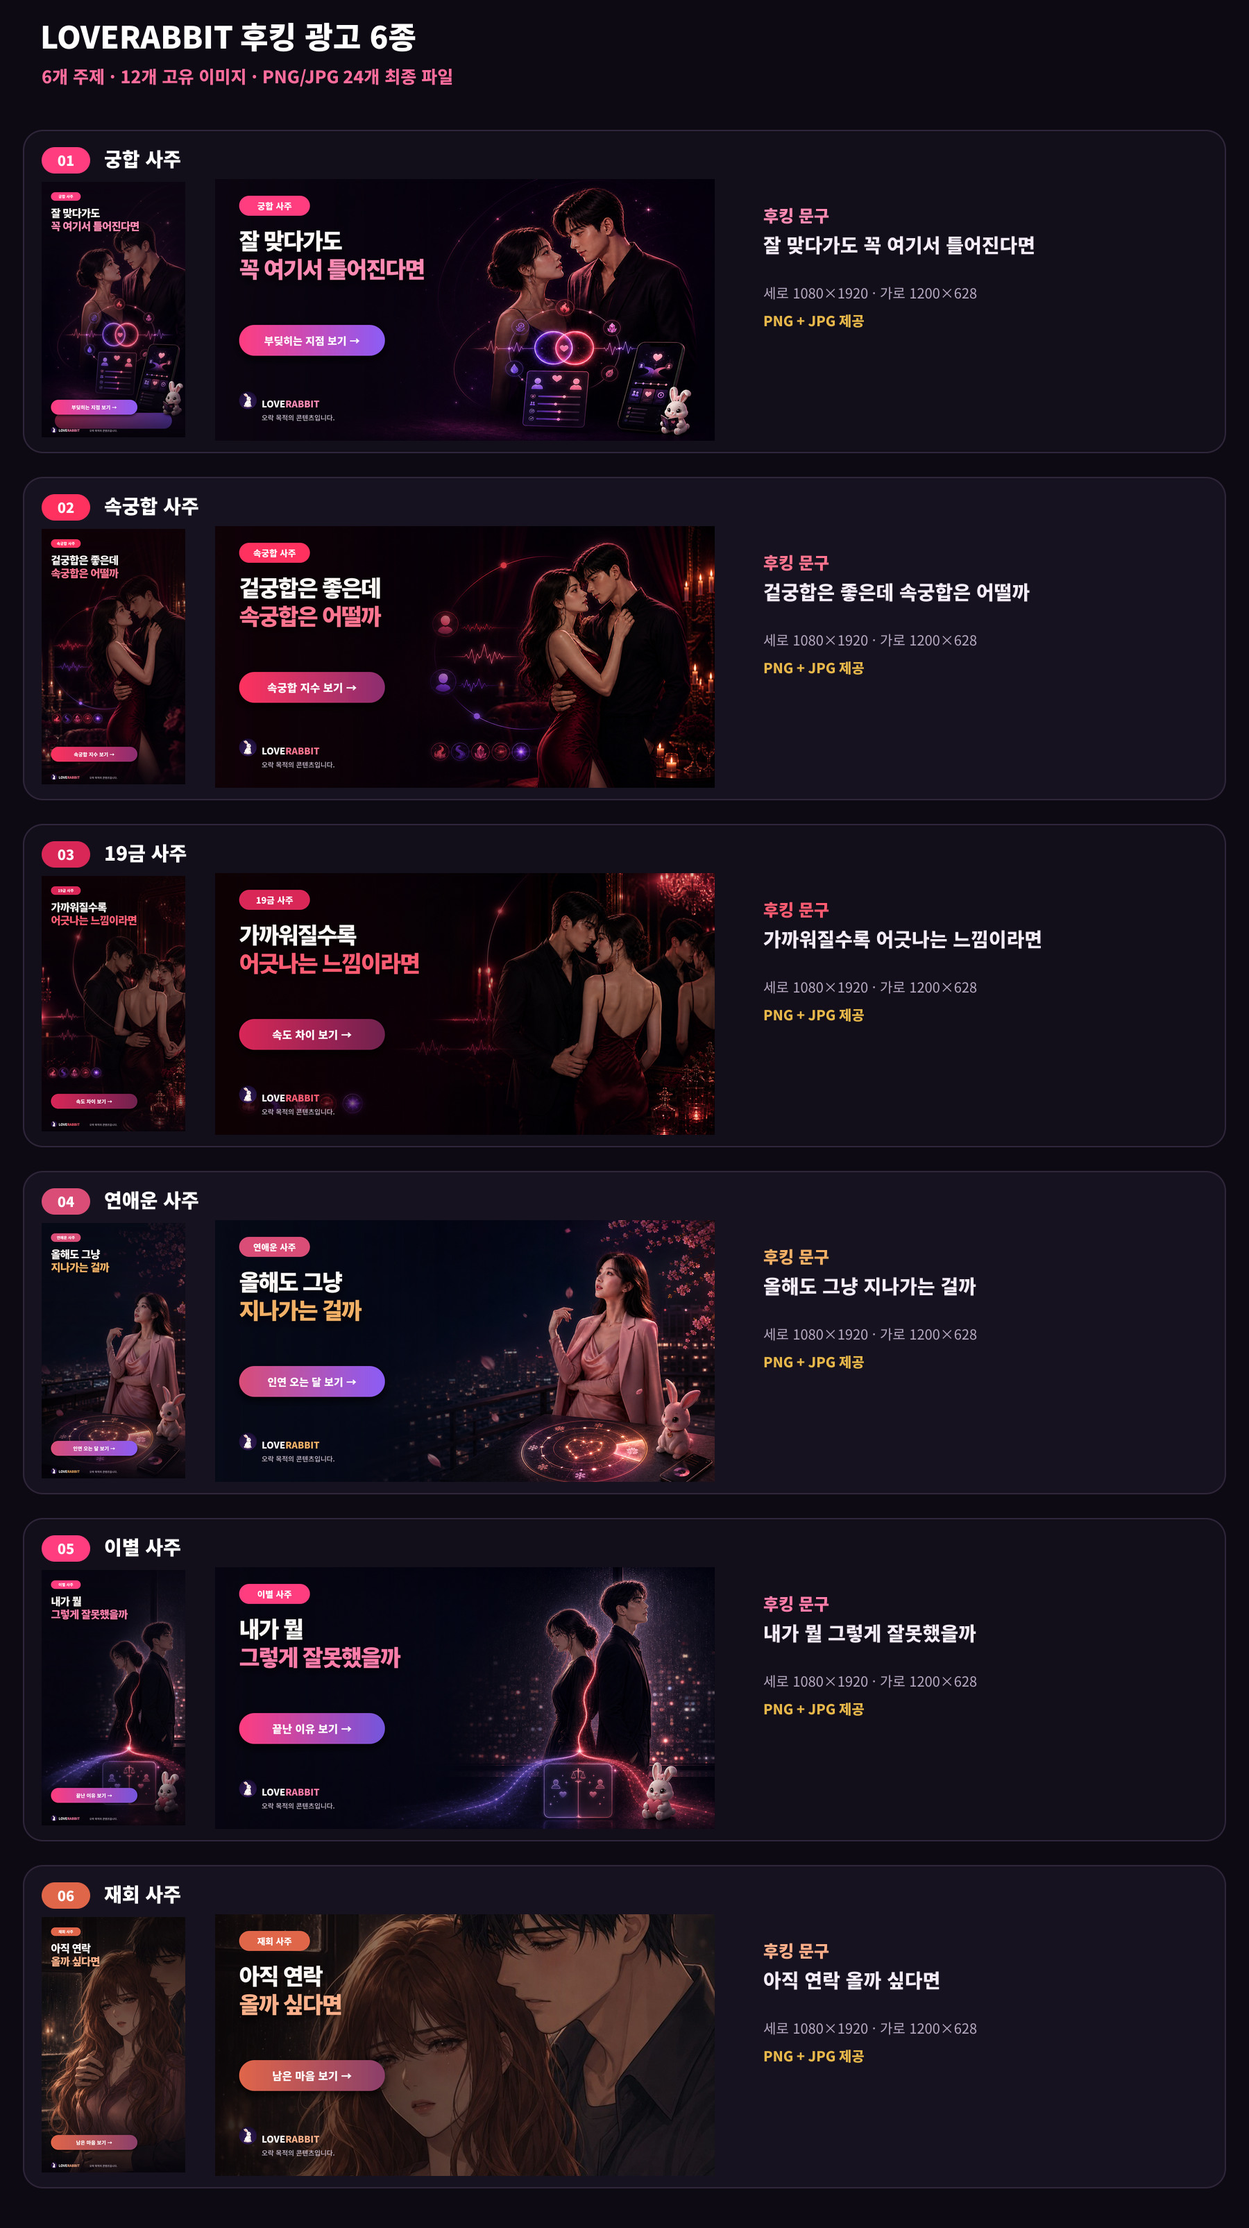
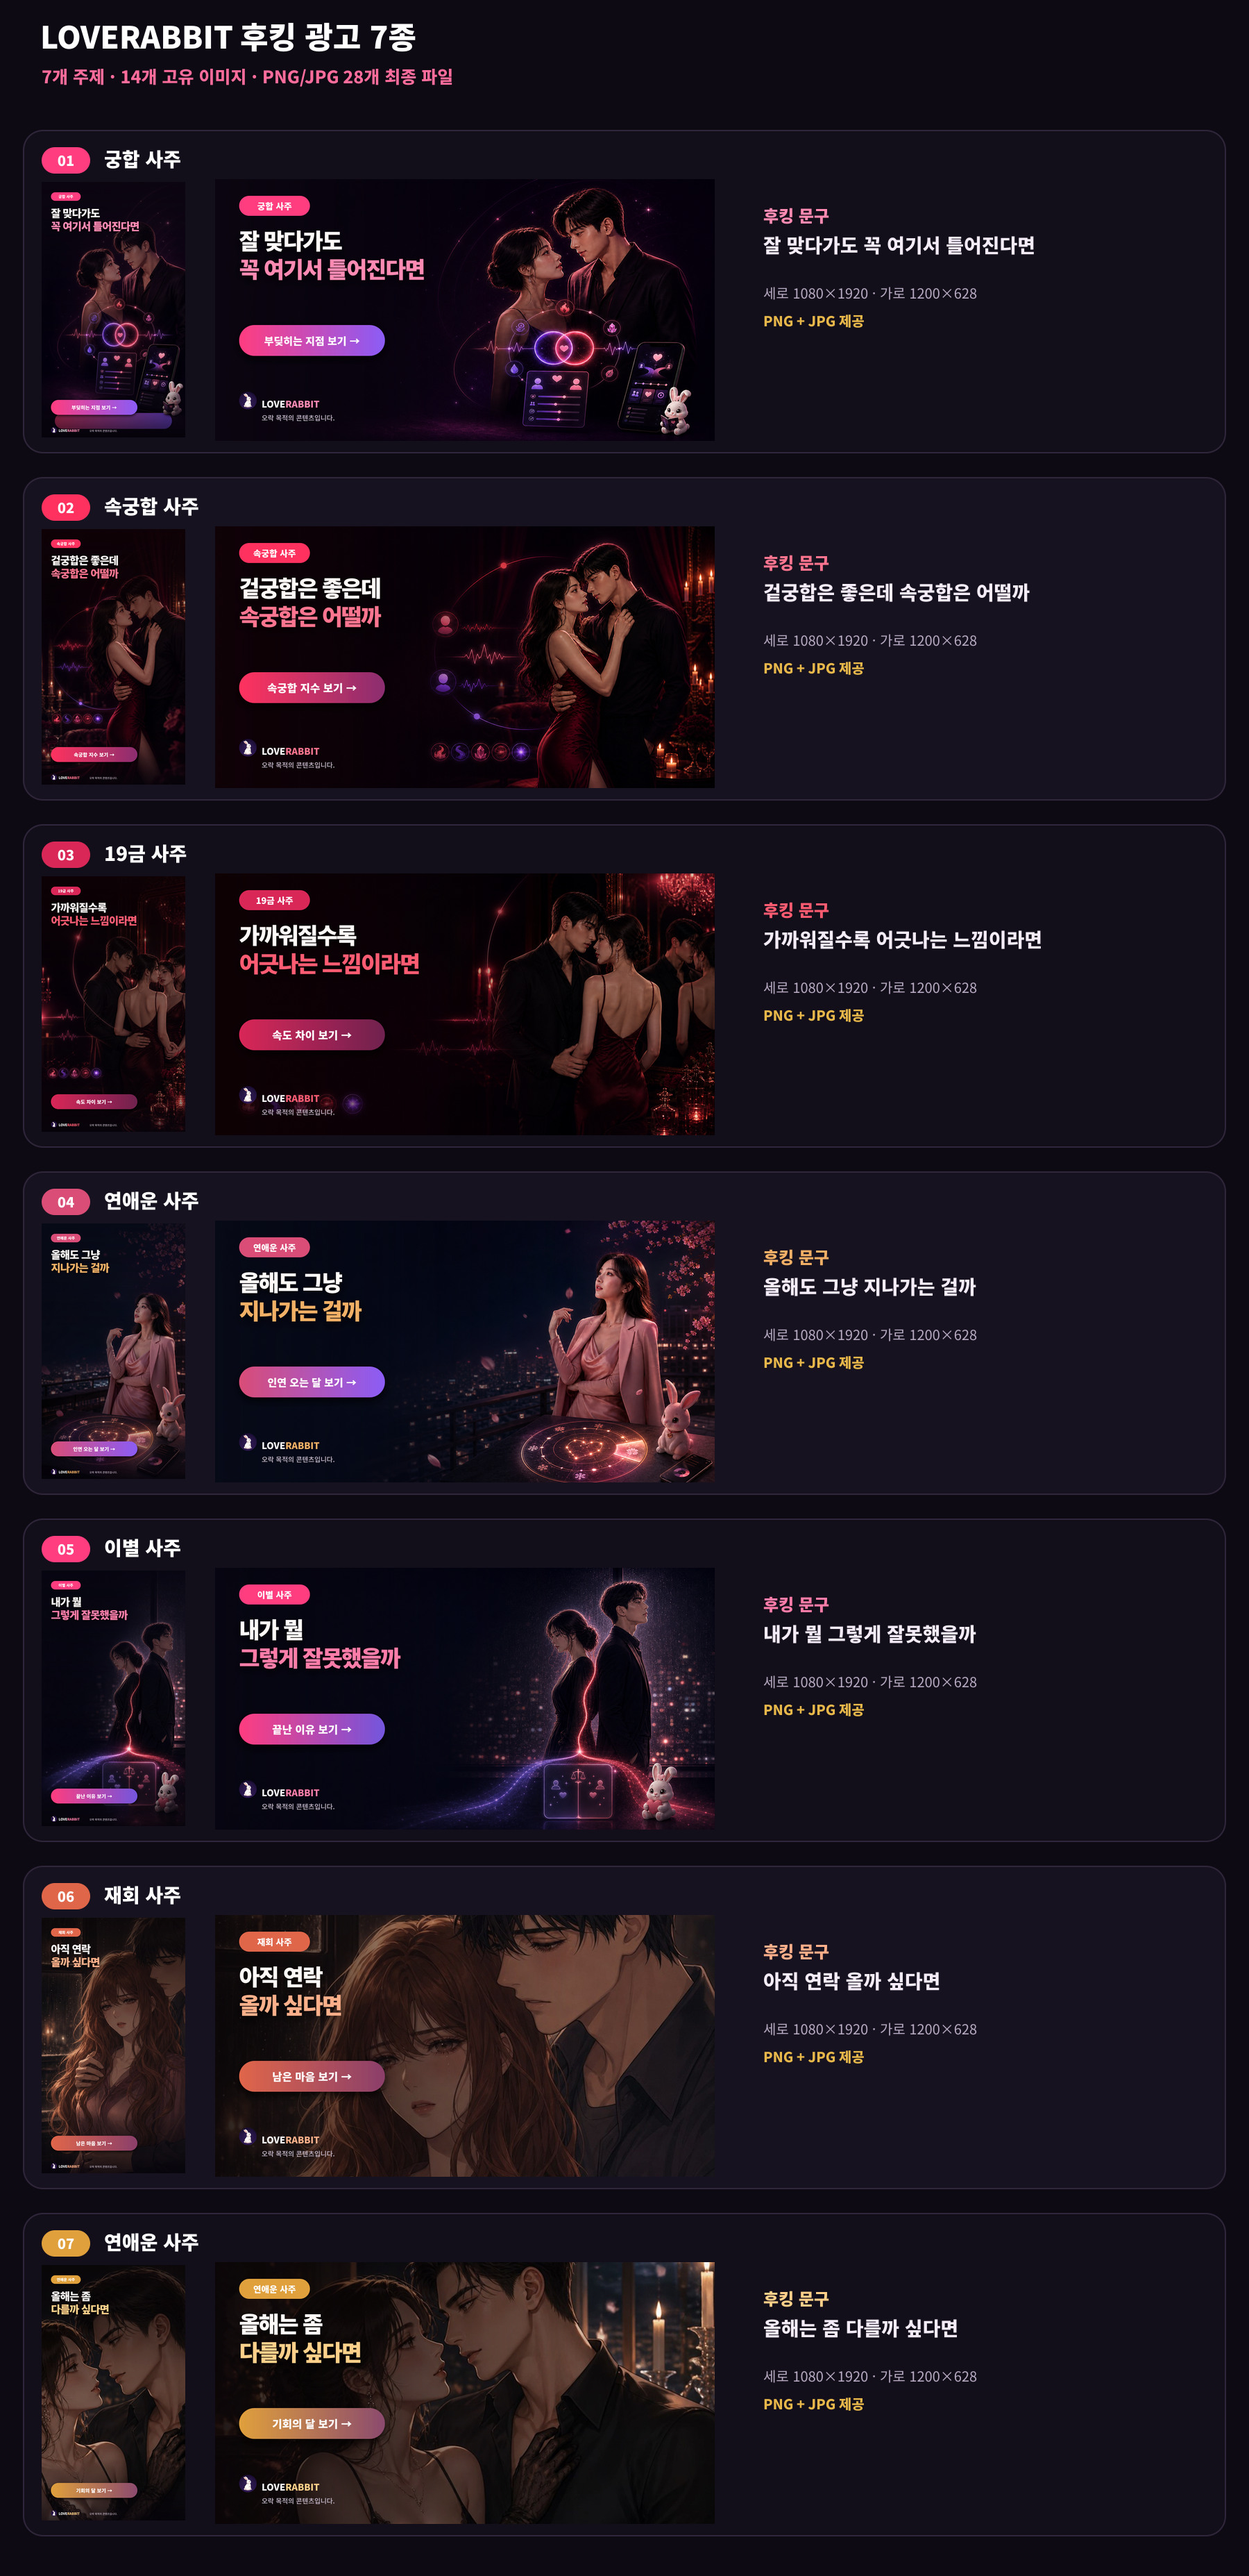
add 연애운 vertical/landscape ads, write copy for all four
소재
- 후킹형에 07-yeonae-year (세로 1080x1920 · 가로 1200x628). 배경은 상품
  카드(cards-pastel/yeonae.jpg)에서 떴다 - 정사각 08 과 같은 그림이라
  정사각·세로·가로 셋이 한 그림에서 나오고, 도착 화면도 같은 그림이다.
- 04(인연 각도)와 갈라 둔다. 04 는 "인연 들어오는 달", 07 은 "기회의 달과
  고비의 달". 같은 상품이지만 문구를 바꿔 끼우면 그림이 문구를 부정한다.
- 이 카드만 자르는 자리를 손으로 못박았다 (derive-card-bg 의 vertical).
  기본값으로 자르면 가슴선이 42~76% 구간 - 베일이 걷혀 그대로 보이는 자리 -
  에 놓인다. 2.6배로 당겨 두 얼굴만 남기면 88% 로 내려가 CTA 뒤로 들어간다.
  파는 것은 올해의 연애 흐름이지 성인 소재가 아니다.

문구 (META_COPY_V2)
- 네 광고 문구를 전부 채웠다. 지금 돌고 있는 광고의 리듬(짧은 후킹 +
  무엇을 주는지)에 맞췄고, 각 항목마다 심의 위험 순서를 적어 뒀다.
- 이별 문구에서 "붙잡을지 정리할지" 를 뺐다. 이 상품은 이미 끝난 연애를
  부검하는 것이고(목차 10절 전부가 사후 분석), 지금 관계를 붙잡을지
  정해 주는 절은 없다. 그렇게 팔면 아직 안 헤어진 사람이 사고 환불로
  돌아온다. 랜딩 이름(/saju/breakup-decision)이 헷갈리게 하는 자리다.
- 연애운은 두 각도를 따로 적었다. 한 세트에 섞지 말 것.

diff --git a/marketing/ads/hook-five-v1/HOOK_FIVE_CATALOG.md b/marketing/ads/hook-five-v1/HOOK_FIVE_CATALOG.md
@@ -1,8 +1,8 @@
-# LOVERABBIT 후킹 광고 6종
+# LOVERABBIT 후킹 광고 7종
 
-- 광고 주제: 6개
-- 고유 광고 이미지: 12장 (`세로 6 + 가로 6`)
-- 최종 광고 파일: 24개 (`PNG 12 + JPG 12`)
+- 광고 주제: 7개
+- 고유 광고 이미지: 14장 (`세로 7 + 가로 7`)
+- 최종 광고 파일: 28개 (`PNG 14 + JPG 14`)
 - 규격: 세로 `1080×1920`, 가로 `1200×628`
 
 | 번호 | 광고 주제 | 후킹 문구 | 파일명 접두사 |
@@ -13,6 +13,7 @@
 | 04 | 연애운 사주 | 이번 사랑, 언제 시작될까? | `04-romance-fortune` |
 | 05 | 이별 사주 | 끝낼까, 붙잡을까? | `05-breakup` |
 | 06 | 재회 사주 | 아직 연락 올까 싶다면 | `06-jaehoe` |
+| 07 | 연애운 사주 (올해 흐름) | 올해는 좀 다를까 싶다면 | `07-yeonae-year` |
 
 각 접두사 뒤에 다음 형식이 붙습니다.
 
@@ -21,21 +22,35 @@
 - 가로 PNG: `-ad-horizontal-1200x628.png`
 - 가로 JPG: `-ad-horizontal-1200x628.jpg`
 
-`*-bg.png` 파일은 문구가 없는 원본 배경이며, 최종 광고 24개 집계에는 포함하지 않습니다.
+`*-bg.png` 파일은 문구가 없는 원본 배경이며, 최종 광고 28개 집계에는 포함하지 않습니다.
 
-## 06 재회는 배경 출처가 다릅니다
+## 04 와 07 은 같은 상품입니다
 
-01–05 의 배경은 주제마다 따로 만든 AI 원화입니다. 06 은 그 원화가 없어서,
-그 상품이 사이트에서 실제로 쓰는 카드(`public/cards-pastel/jaehoe.jpg`,
-900×1200)에서 떴습니다 — `node marketing/ads/derive-card-bg.mjs`.
+둘 다 `/product/yeonae` 로 갑니다. 갈라 두는 축은 **각도**입니다 — 04 는 혼자
+기다리는 사람에게 `인연 들어오는 달`, 07 은 올해 전체를 재는 사람에게
+`기회의 달과 고비의 달`. 정사각 세트의 04/08 을 갈라 둔 것과 같은 축이고,
+문구를 서로 바꿔 끼우면 그림이 문구를 부정합니다.
+
+## 06 · 07 은 배경 출처가 다릅니다
+
+01–05 의 배경은 주제마다 따로 만든 AI 원화입니다. 06(재회)과 07(연애운)은
+그 원화가 없어서, 그 상품이 사이트에서 실제로 쓰는 카드
+(`public/cards-pastel/jaehoe.jpg` · `yeonae.jpg`, 900×1200)에서 떴습니다 —
+`node marketing/ads/derive-card-bg.mjs`.
 
 **확대입니다.** 900px 원본을 가로 1734px 까지 늘립니다. 애니풍 그림이라 눈에
-잘 띄지는 않지만 원화와 같지 않습니다. 원화를 새로 만들면
-`06-jaehoe-vertical-bg.png` · `06-jaehoe-horizontal-bg.png` 만 갈아 끼우고
-생성기를 다시 돌리면 됩니다.
+잘 띄지는 않지만 원화와 같지 않습니다. 원화를 새로 만들면 `*-bg.png` 두 장만
+갈아 끼우고 생성기를 다시 돌리면 됩니다.
 
-대신 이점도 있습니다 — 클릭 뒤 도착하는 `/product/jaehoe` 가 같은 그림을
-쓰므로 소재와 도착 화면이 이어집니다.
+대신 이점도 있습니다 — 클릭 뒤 도착하는 상품 페이지가 같은 그림을 쓰므로
+소재와 도착 화면이 이어집니다.
+
+**07 은 자르는 자리를 손으로 못박았습니다.** 그 카드는 인물이 붙어 있는
+구도라, 기본값으로 자르면 가슴선이 화면 한가운데(42~76%, 베일이 걷히는
+구간)에 그대로 놓입니다. 2.6배로 당겨 두 얼굴만 남기면 그 선이 88% 로
+내려가 CTA 버튼과 아래쪽 어두운 띠 뒤로 들어갑니다. 파는 것은 올해의 연애
+흐름이지 성인 소재가 아닙니다 — 그림이 그렇게 읽히면 심의도 위험하고
+상품도 오해받습니다. 값은 `derive-card-bg.mjs` 의 `vertical` 에 있습니다.
 
 ## 광고 운영 메모
 

diff --git a/marketing/ads/AD_CATALOG.md b/marketing/ads/AD_CATALOG.md
@@ -2,9 +2,9 @@
 
 ## 현재 수량
 
-- 광고 콘셉트: **12개**
-- 고유 광고 이미지: **24개** — 콘셉트마다 세로형 1개 + 가로형 1개
-- 최종 내보내기 파일: **48개** — 각 이미지를 PNG와 JPG로 저장
+- 광고 콘셉트: **13개**
+- 고유 광고 이미지: **26개** — 콘셉트마다 세로형 1개 + 가로형 1개
+- 최종 내보내기 파일: **52개** — 각 이미지를 PNG와 JPG로 저장
 - 생성용 배경과 합성 스크립트는 위 숫자에서 제외
 
 ## 광고별 구분
@@ -23,6 +23,7 @@
 | 10 | 연애운 사주 · 봄밤 타이밍형 | 이번 사랑, 언제 시작될까? | `hook-five-v1/04-romance-fortune-ad-vertical-1080x1920.png` | `hook-five-v1/04-romance-fortune-ad-horizontal-1200x628.png` | `/product/yeonae` (인연 타이밍이 여기로 합쳐졌다) |
 | 11 | 이별 사주 · 갈림길형 | 끝낼까, 붙잡을까? | `hook-five-v1/05-breakup-ad-vertical-1080x1920.png` | `hook-five-v1/05-breakup-ad-horizontal-1200x628.png` | 이별 전용 랜딩 |
 | 12 | 재회 사주 · 빗속 포옹형 | 아직 연락 올까 싶다면 | `hook-five-v1/06-jaehoe-ad-vertical-1080x1920.png` | `hook-five-v1/06-jaehoe-ad-horizontal-1200x628.png` | `/product/jaehoe` |
+| 13 | 연애운 사주 · 촛불 커플형 | 올해는 좀 다를까 싶다면 | `hook-five-v1/07-yeonae-year-ad-vertical-1080x1920.png` | `hook-five-v1/07-yeonae-year-ad-horizontal-1200x628.png` | `/product/yeonae` |
 
 ## 형식
 
@@ -54,10 +55,14 @@
 클릭 뒤에 같은 그림이 그대로 나온다. 08 은 같은 상품을 파는 04(인연 각도)와
 문구가 다르므로 둘을 갈아 끼우지 마라.
 
+**08 연애운(정사각) · 13 연애운(세로/가로)은 같은 그림에서 나온다.** 정사각
+08 과 후킹형 07(위 표 13)이 모두 `/product/yeonae` 의 카드에서 떴다. 같은
+상품을 파는 04·10(인연 각도)과는 문구가 다르니 갈아 끼우지 마라.
+
 **09 재회는 배경 출처가 다르다.** 다른 주제는 배경이 주제마다 따로 만든 AI
 원화인데, 재회는 그 원화가 없어서 상품 카드(`public/cards-pastel/jaehoe.jpg`,
 900×1200)에서 떴다 — `node marketing/ads/derive-card-bg.mjs` 가 세로 941×1672
-와 가로 1734×907 두 장을 만든다. 900px 원본을 늘린 **확대**라 원화와 같지
+와 가로 1734×907 두 장을 만든다. 연애운(`yeonae.jpg`)도 같은 방식이다. 900px 원본을 늘린 **확대**라 원화와 같지
 않다. 원화가 생기면 그 배경 파일만 갈아 끼우고 생성기를 다시 돌리면 된다.
 
 대신 클릭 뒤 도착하는 `/product/jaehoe` 가 같은 그림을 쓰므로 소재와 도착
